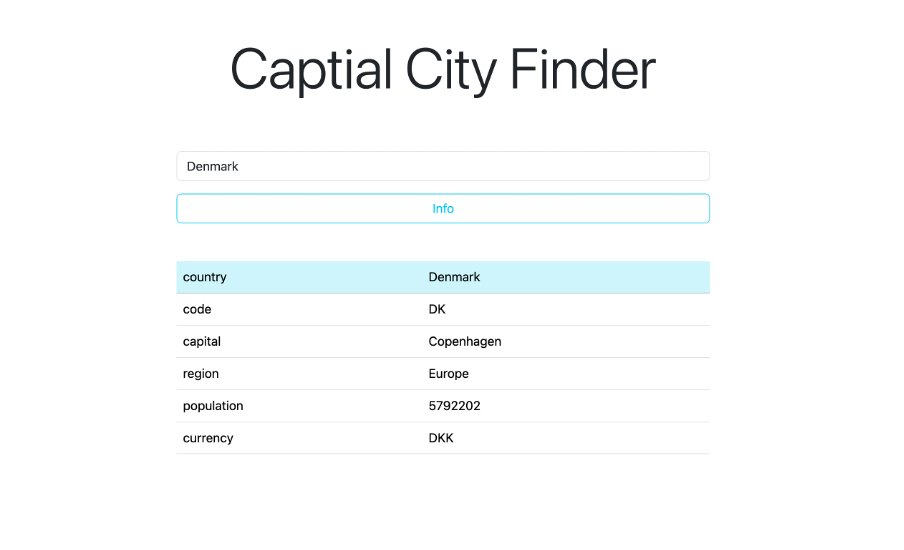
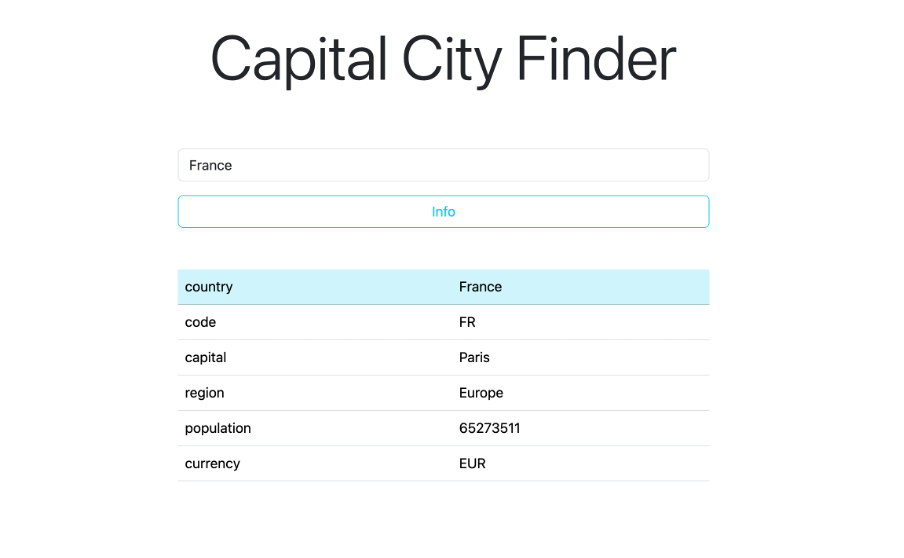
Fix typo in page title and update screenshot

diff --git a/frontend/index.html b/frontend/index.html
@@ -9,7 +9,7 @@
   </head>
   <body class="m-5">
     <div class="container text-center d-grid gap-2 col-6">
-      <h1 class="display-2">Captial City Finder</h1>
+      <h1 class="display-2">Capital City Finder</h1>
       <div>
         <input id="input" list="countries" autocomplete="off" class="form-control form-control-md mt-5" type="text" placeholder="Enter country" aria-label=".form-control-lg example">
         <datalist id="countries"></datalist>
